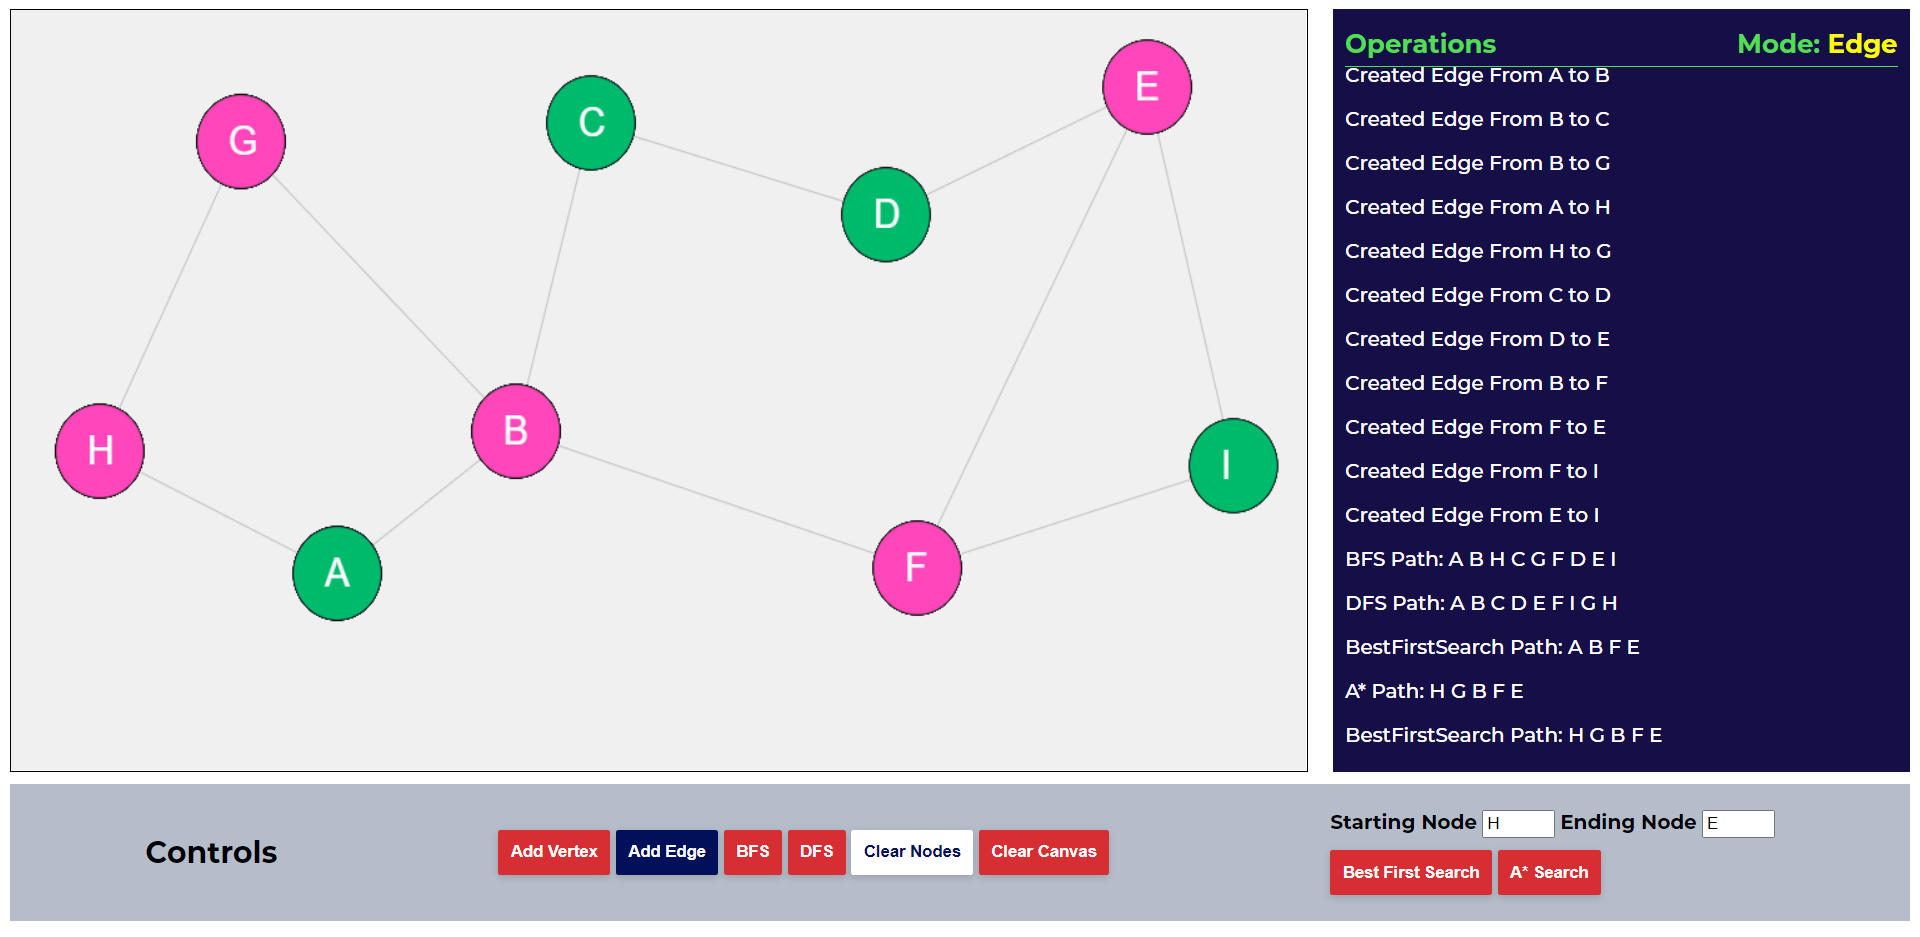
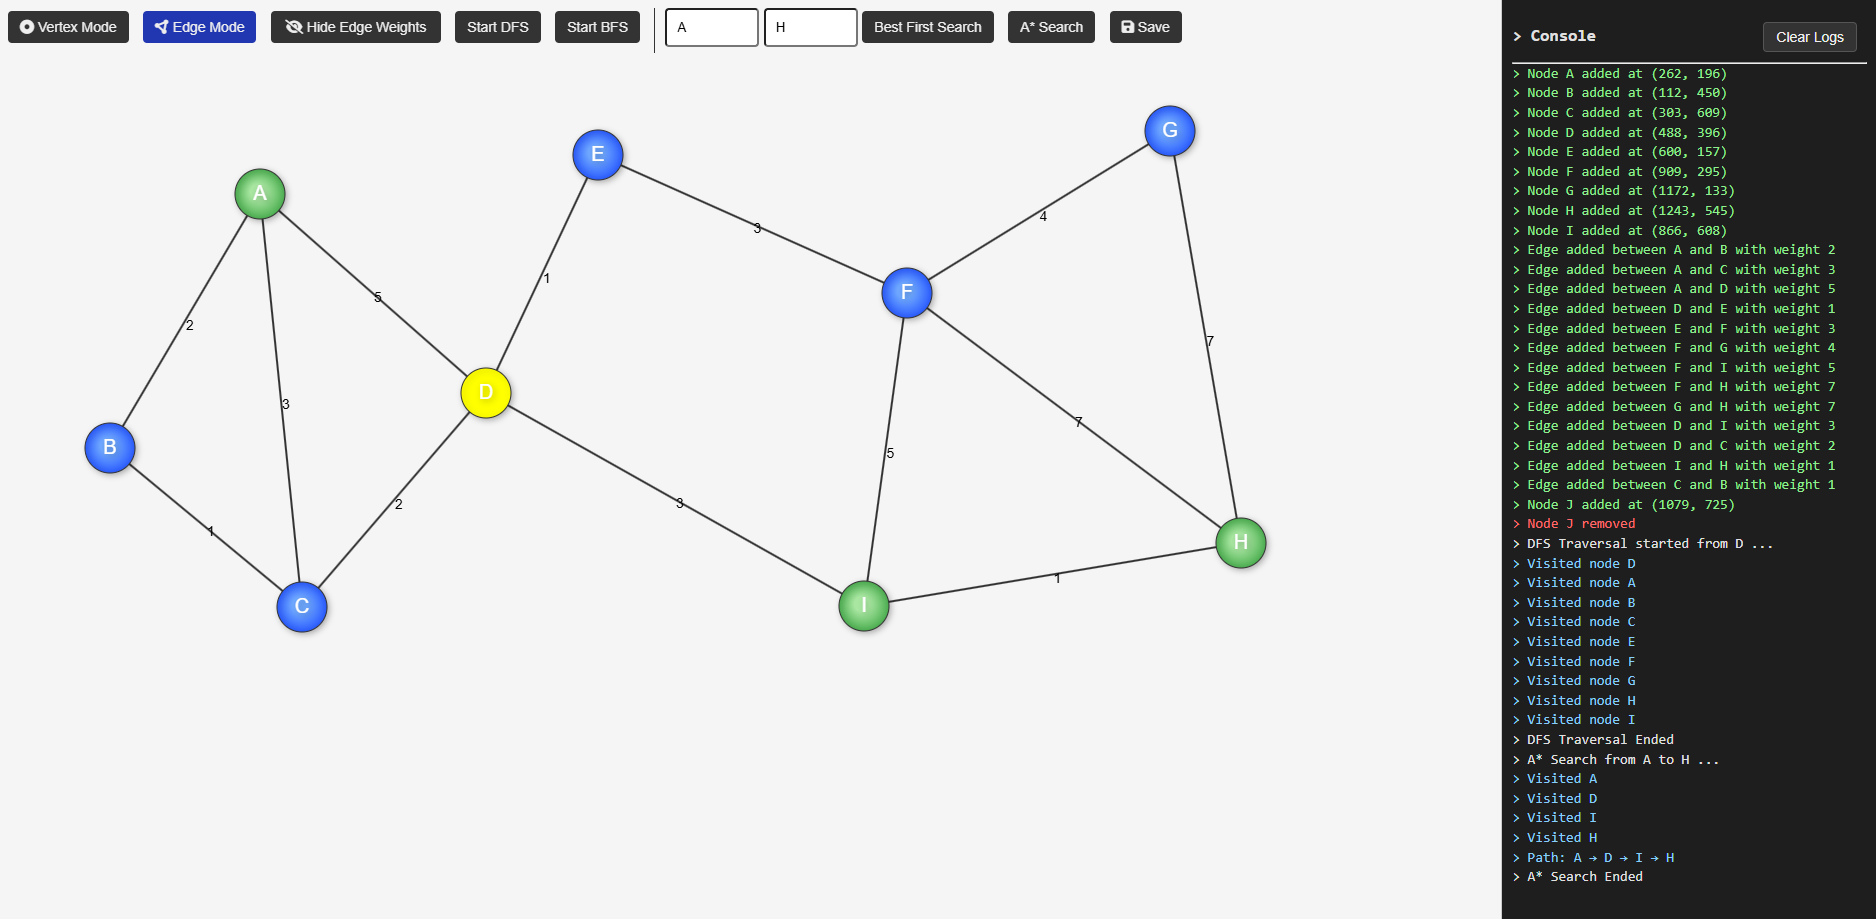
Update README.md

diff --git a/README.md b/README.md
@@ -1,10 +1,40 @@
-# How to Use
+## Tech Stack
 
-1. Click on `Add Vertex` Button.
-2. This will allow you to draw nodes on the canvas by clicking on it.
-3. To create an edge between 2 nodes click on the `Add Edge` Button.
-4. Now drag the mouse from one node and drop it onto the other node.
-5. After creating all the nodes and edges you can click on the `BFS` or `DFS` button to see the breadth first search traversal or depth first search traversal respectively.
-6. To get the path between two nodes specify the starting and ending nodes and click on the `Best First Search` button or `A* Search Button`.
+- **HTML5 Canvas** — Interactive 2D graph rendering
+- **JavaScript (ES6+)** — Graph logic, algorithms, event handling
+- **CSS3** — UI styling
+- **Font Awesome** — Icons
+
+## Features
+
+### Graph Construction
+
+- **Click** (Vertex Mode) to add nodes
+- **Drag and drop** (Any Mode) to reposition nodes
+- **Right-click** (Any Mode) to delete nodes
+- **Edge Mode**: click two nodes to create undirected, weighted edges
+- **Edge weights**: manually enter and toggle visibility
+
+### Graph Traversals
+
+- **Depth First Search (DFS)** with animation
+- **Breadth First Search (BFS)** with animation
+- **Greedy Best First Search**
+- **A\* Pathfinding Algorithm**
+
+### Visualization
+
+- Selected & hovered nodes are highlighted
+- Animated traversal shows visited nodes
+- Logs console shows visited path and operations
+- Shows a tooltip when drawing a new node that overlaps any node on canvas
+- Hide edge weights if you don't want to see edge weights on your graph
+
+### Developer Tools
+
+- **Console Panel**: Logs every action (color-coded)
+- **Download Image** button to save the canvas as PNG
+
+---
 
 ![Live Site Preview](live-site-preview.png)
